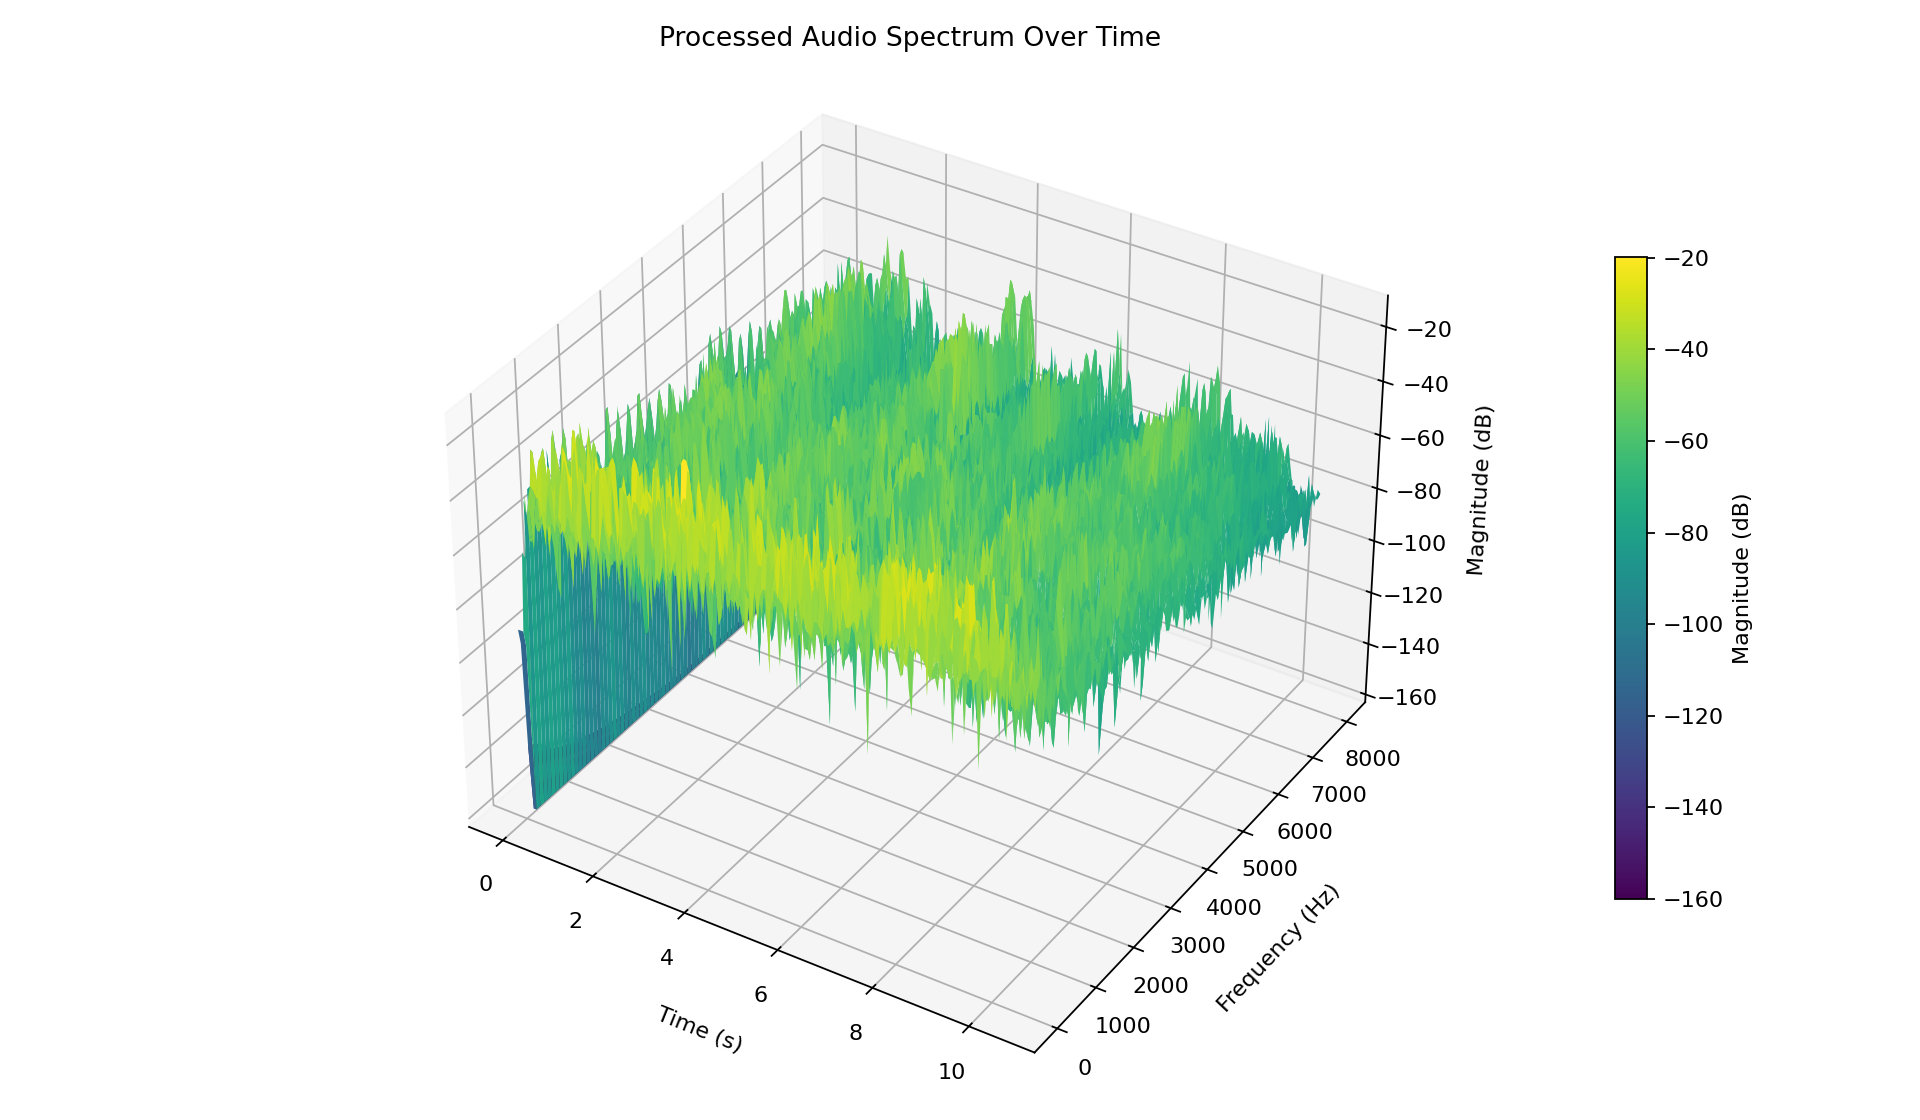
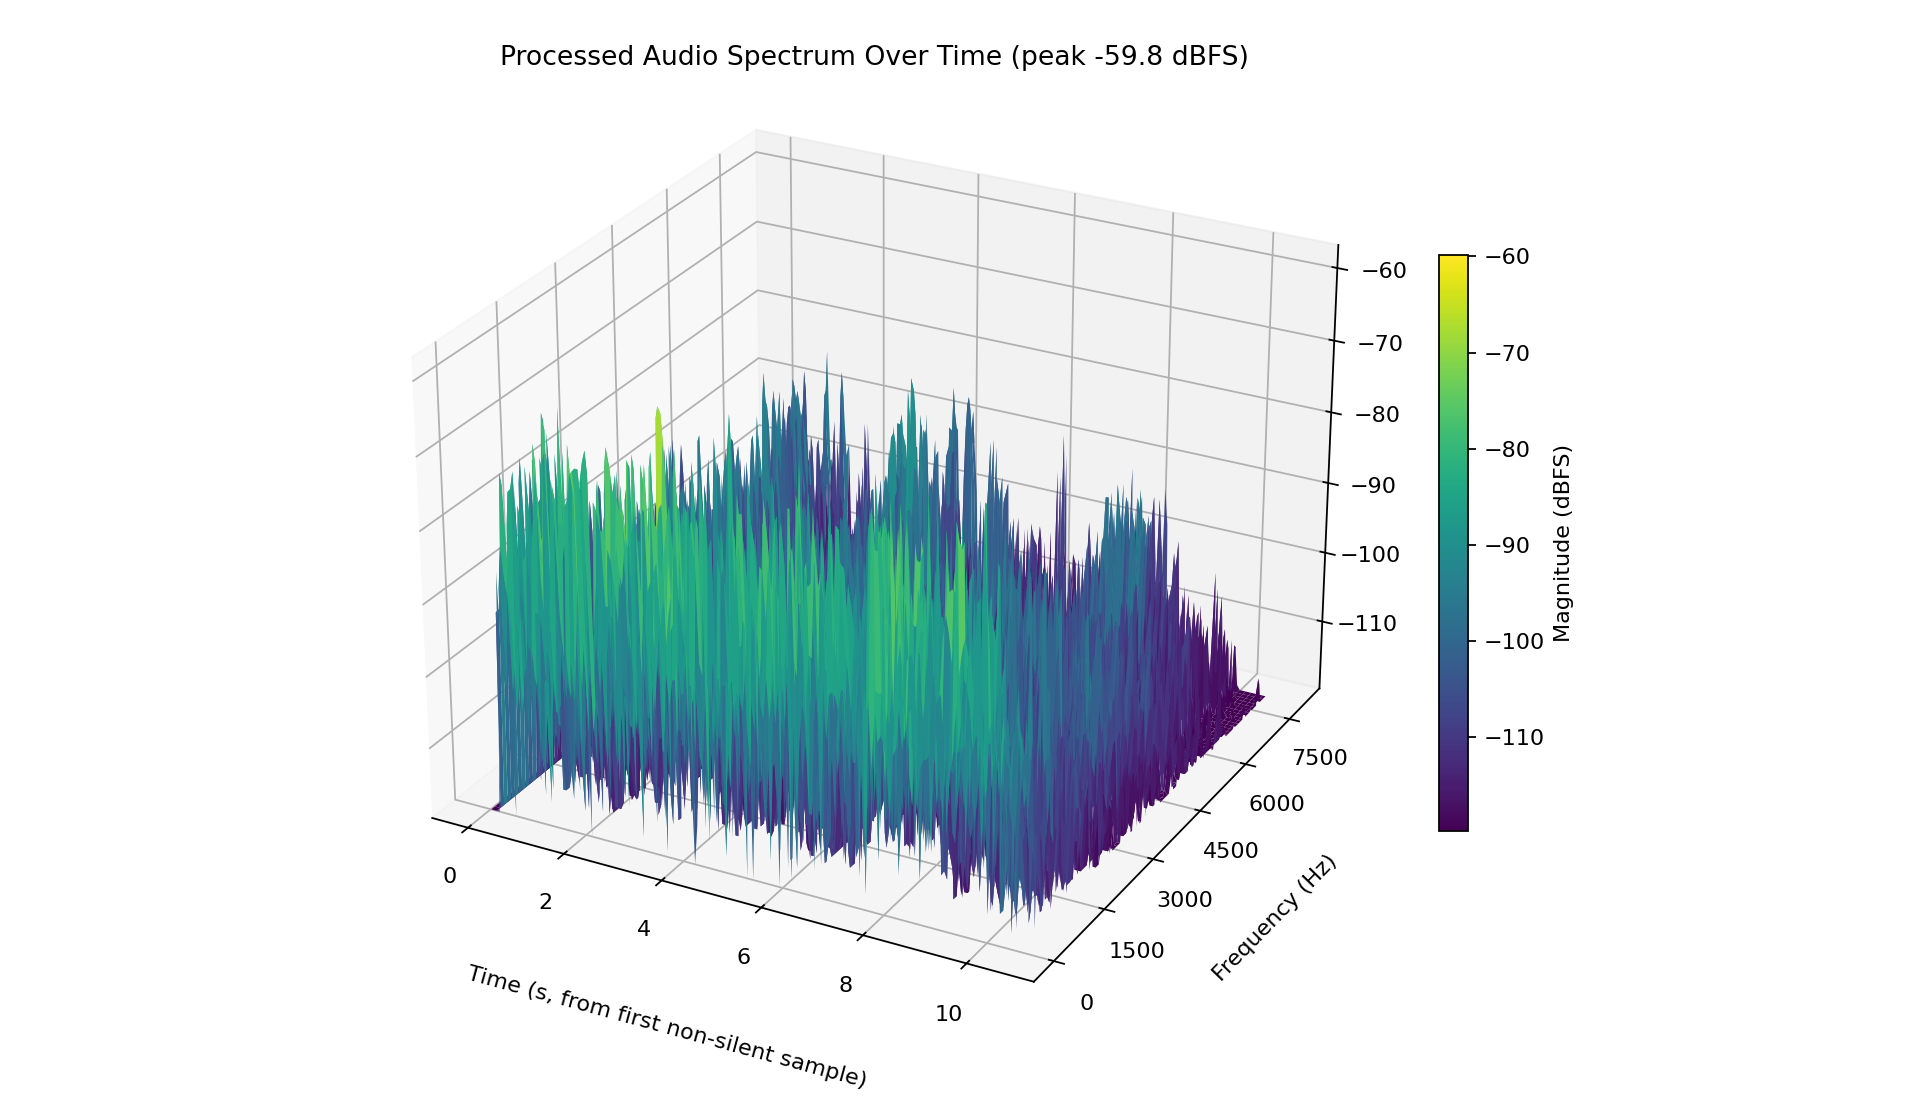
fix(figures): 重做三张对比图，修可读性问题
- multiband_comparison.png 自生成起一直是空白：线性归一化刻度是给单频
  正弦定的，真实语音单格只占满量程 3%，配上写死的 ylim 两条曲线都贴 0。
  改用 dBFS，并用 Welch 分段平均压掉单段周期图的方差。
- spectrum_waterfall.png 色标按数据 min/max 自动定，开头两帧的数字静音
  把色标下半段全浪费掉。改为按峰值向下铺固定 dB，并切掉开头静音；
  3D 几何也按同一下限裁剪，否则向下的尖刺会挡住时间轴刻度。
- hls_golden_comparison.png 参考线太细又叠了透明度，被上面那条盖住，
  看着像只画了一条；误差纵轴改用 16 位 LSB，直接读成"最多差一个最低位"。
- compare_golden_vs_hw.py 补 Windows 控制台的 UTF-8 守卫，否则验收判据
  在控制台上打成乱码。

diff --git a/src/python/plot_spectrum_waterfall.py b/src/python/plot_spectrum_waterfall.py
@@ -2,6 +2,18 @@
 
 Run after multiband_baseline.py from the repository root:
     python src/python/plot_spectrum_waterfall.py
+
+纵轴单位是 **dBFS**（满量程正弦 = 0 dB），不是裸的 20*log10(|X|)。
+两处都是 2026-10-02 改的：
+
+  1. 裸 dB 没有绝对刻度 —— 读图的人不知道 0 在哪，"最大 −11.7 dB"这种话
+     也写不进报告。换成 dBFS 之后可以直接说"峰值 −60 dBFS"。
+  2. 色标原来让 matplotlib 按数据 min/max 自动定。数据里最深的点被 1e-8
+     的截断下限压到 −160 dB，于是色标下面一半全浪费，画面主体挤在上半段、
+     糊成一片黄绿。现在按"峰值往下铺 N dB"定。
+
+另外切掉开头那段纯数字静音：它和后面的信号差约 100 dB，
+在 3D 视角下是一道竖直的墙，正好挡在画面正前方。
 """
 
 import argparse
@@ -11,8 +23,25 @@ import matplotlib
 matplotlib.use("Agg")
 import matplotlib.pyplot as plt
 import numpy as np
-import soundfile as sf
+from matplotlib.ticker import MaxNLocator
 from scipy import signal
+
+try:
+    import soundfile as sf
+except ImportError:
+    # 本机 conda 环境里没装 soundfile（仓库其它脚本也做了同样的回退）。
+    # 不写这个回退的话，这个脚本在这台机器上直接 ImportError 跑不起来。
+    sf = None
+
+
+def read_wav(path):
+    """返回 (float 数组, 采样率)。soundfile 优先，没有就退回 scipy。"""
+    if sf is not None:
+        return sf.read(path)
+    from scipy.io import wavfile
+
+    fs, data = wavfile.read(path)
+    return data.astype(np.float64) / 32768.0, fs
 
 
 def main():
@@ -20,13 +49,20 @@ def main():
     parser.add_argument("--input", default="data/audio/multiband_output.wav")
     parser.add_argument("--output", default="data/figures/spectrum_waterfall.png")
     parser.add_argument("--max-hz", type=float, default=8000.0)
+    parser.add_argument("--db-range", type=float, default=60.0,
+                        help="色标从峰值往下铺多少 dB")
     args = parser.parse_args()
 
-    x, fs = sf.read(args.input)
+    x, fs = read_wav(args.input)
     if x.ndim > 1:
         x = np.mean(x, axis=1)
+
+    # 切掉开头的纯静音（见文件头说明）。记下切了多少，写进坐标轴标签。
+    nonzero = np.abs(x) > 1e-6
+    lead = int(np.argmax(nonzero)) if nonzero.any() else 0
+    x = x[lead:]
     if len(x) < 1024:
-        raise SystemExit("Input audio must contain at least 1024 samples.")
+        raise SystemExit("Input audio must contain at least 1024 non-silent samples.")
 
     frequencies, times, spectrum = signal.spectrogram(
         x,
@@ -40,7 +76,11 @@ def main():
     )
     keep = frequencies <= min(args.max_hz, fs / 2)
     frequencies = frequencies[keep]
-    magnitude_db = 20.0 * np.log10(np.maximum(spectrum[keep], 1e-8))
+
+    # 换成 dBFS：一个满量程正弦经过这套换算正好是 0 dB。
+    # 参考值就是"幅度 1.0 的正弦在 Hann 窗下的峰值格"= 0.5 * sum(win)。
+    full_scale = 0.5 * np.hanning(1024).sum()
+    magnitude_db = 20.0 * np.log10(np.maximum(spectrum[keep] / full_scale, 1e-9))
 
     # Limit the mesh size while retaining the shape of a long recording.
     time_step = max(1, len(times) // 180)
@@ -48,31 +88,55 @@ def main():
     magnitude_db = magnitude_db[:, ::time_step]
     time_grid, freq_grid = np.meshgrid(times, frequencies)
 
+    peak = float(magnitude_db.max())
+    vmin = peak - args.db_range
+
+    # 几何也要按同一个下限裁一刀，不能只裁颜色。
+    # 噪声底那些向下的尖刺（真实低到 −160 dB）会在 3D 里竖成一堵墙，
+    # 正好挡在时间轴前面，把刻度全遮掉 —— 只给 vmin/vmax 是管不住几何的。
+    # 裁完之后底面是个干净的平面，山脊看得清，轴也露得出来。
+    plot_db = np.maximum(magnitude_db, vmin)
+
     fig = plt.figure(figsize=(12, 7))
     ax = fig.add_subplot(111, projection="3d")
     surface = ax.plot_surface(
         time_grid,
         freq_grid,
-        magnitude_db,
+        plot_db,
         cmap="viridis",
         linewidth=0,
         antialiased=True,
         rstride=2,
         cstride=2,
+        vmin=vmin,
+        vmax=peak,
     )
-    ax.set_title("Processed Audio Spectrum Over Time")
-    ax.set_xlabel("Time (s)", labelpad=9)
-    ax.set_ylabel("Frequency (Hz)", labelpad=10)
-    ax.set_zlabel("Magnitude (dB)", labelpad=8)
-    ax.view_init(elev=35, azim=-58)
-    fig.colorbar(surface, ax=ax, shrink=0.62, pad=0.1, label="Magnitude (dB)")
-    fig.tight_layout()
+    ax.set_title("Processed Audio Spectrum Over Time (peak %.1f dBFS)" % peak)
+    ax.set_xlabel("Time (s, from first non-silent sample)", labelpad=16)
+    ax.set_ylabel("Frequency (Hz)", labelpad=12)
+    # z 轴不写字：右边那根 colorbar 是同一段刻度、同一个量，已经带了
+    # "Magnitude (dBFS)" 的标签。两边都写反而打架 —— z 标签的 labelpad 是
+    # 往远离轴的方向推，推小了压在刻度数字上、推大了撞进 colorbar，没有落点。
+    ax.set_zlabel("")
+    ax.set_zlim(vmin, peak + 3.0)
+    # 刻度别太密 —— 密了在 3D 里互相压，读不出来。
+    ax.xaxis.set_major_locator(MaxNLocator(6))
+    ax.yaxis.set_major_locator(MaxNLocator(6))
+    ax.set_box_aspect(None, zoom=1.12)
+    ax.view_init(elev=26, azim=-62)
+    fig.colorbar(surface, ax=ax, shrink=0.62, pad=0.06, label="Magnitude (dBFS)")
+    # 3D 轴用 tight_layout() 不收敛（它算不准 3D 的边距），
+    # 会把 x 轴标签挤出画布 —— 实测就是这么被切掉半个字的。
+    # bottom 留 0.1 是给那行 x 轴标签的位置，少了就切掉尾巴。
+    fig.subplots_adjust(left=0.01, right=0.88, top=0.93, bottom=0.10)
     output_dir = os.path.dirname(args.output)
     if output_dir:
         os.makedirs(output_dir, exist_ok=True)
     fig.savefig(args.output, dpi=160)
     plt.close(fig)
-    print(f"Saved {args.output} ({fs} Hz, {len(x)} samples)")
+    print("Saved %s (%d Hz, %d samples, skipped %d leading samples, "
+          "peak %.1f dBFS, colour range %.0f..%.0f dBFS)"
+          % (args.output, fs, len(x), lead, peak, vmin, peak))
 
 
 if __name__ == "__main__":

diff --git a/src/python/multiband_baseline.py b/src/python/multiband_baseline.py
@@ -239,27 +239,67 @@ def main():
     print(f"   已保存 {OUT_WAV}")
 
     # ---- 5. 频谱对照图 ----
-    m = min(FS, len(x))                  # 只取前 1 秒画图
-    freqs = np.fft.fftfreq(m, 1 / FS)
-    fft_orig = np.abs(np.fft.fft(x[:m])) / m * 2
-    fft_multi = np.abs(np.fft.fft(output[:m])) / m * 2
+    # 只取前 1 秒、0~2000 Hz 画图（人声能量都在这段）。
+    #
+    # 纵轴用 **dB**（满量程正弦 = 0 dB），不是线性归一化幅度。
+    # 线性那套（|X| / N * 2）是给**单频正弦**定的刻度：满量程正弦画出来正好是 1.0。
+    # 真实人声的能量摊在几百个频率格上，单格最大只有 0.0244，也就是满量程的 3%。
+    # 配一个写死的 ylim(0, 1.5)，两条曲线就都贴在 0 上，**图等于空的** ——
+    # 这张图从生成那天起一直是这样，2026-10-02 才发现。
+    # 换 dB 之后 0.0244 就是 −32 dB，看得见。
+    # 用 **Welch 法（分段平均）** 估谱，不用单次 FFT 的周期图。
+    # 单段周期图每个频率格的方差极大 —— 语音上逐格能上下跳 20 dB，
+    # 那点起伏比压缩器造成的变化还大，图上看不出到底谁压了谁（实测见过）。
+    # 分段平均之后留下的是真正的频谱形状。
+    m = min(FS, len(x))                  # 只取前 1 秒
+    nperseg = 4096                       # 频率分辨率 11.7 Hz，约 22 段平均
+    f, psd_o = signal.welch(x[:m], fs=FS, nperseg=nperseg,
+                            noverlap=nperseg // 2, scaling="spectrum")
+    _, psd_p = signal.welch(output[:m], fs=FS, nperseg=nperseg,
+                            noverlap=nperseg // 2, scaling="spectrum")
 
-    plt.figure(figsize=(10, 4))
-    plt.plot(freqs[:m // 2], fft_orig[:m // 2], label="Original", color="blue", alpha=0.5)
-    plt.plot(freqs[:m // 2], fft_multi[:m // 2], label="Multiband Processed",
-             color="orange", linewidth=2)
-    plt.title(f"Multiband Baseline ({len(bands)} bands, {n} taps, "
-              f"subtractive, {FS} Hz)")
-    plt.xlabel("Frequency (Hz)")
-    plt.ylabel("Normalized Magnitude")
-    plt.xlim(0, 2000)
-    plt.ylim(0, 1.5)
-    plt.legend()
-    plt.grid(True)
+    # 0 dB 参考 = 一个满量程正弦的均方（幅度 1.0 → 均方 0.5）。
+    # scaling="spectrum" 下这个参考同样成立，所以纵轴读出来就是 dBFS。
+    REF = 0.5
+    o_db = 10.0 * np.log10(np.maximum(psd_o / REF, 1e-12))
+    p_db = 10.0 * np.log10(np.maximum(psd_p / REF, 1e-12))
+    # 20 Hz 以下不画：第一个频率格（11.7 Hz）在压缩器不工作的直流附近，
+    # 两条曲线在那里都接近零，dB 相减会把它放大成一个假的尖峰。
+    keep = (f >= 20.0) & (f <= 2000.0)
+    peak_db = float(max(o_db[keep].max(), p_db[keep].max()))
+
+    fig, (ax1, ax2) = plt.subplots(2, 1, figsize=(10, 7), sharex=True)
+
+    ax1.plot(f, o_db, label="Original", color="tab:blue", linewidth=1.0)
+    ax1.plot(f, p_db, label="Multiband Processed", color="tab:orange",
+             linewidth=1.4)
+    ax1.set_title(f"Multiband Baseline ({len(bands)} bands, {n} taps, "
+                  f"subtractive, {FS} Hz)")
+    ax1.set_ylabel("Magnitude (dB)\nfull-scale sine = 0 dB")
+    ax1.set_ylim(peak_db - 45.0, peak_db + 6.0)
+    ax1.legend(loc="upper right")
+    ax1.grid(True)
+
+    # 下图：压缩前后差多少。DRC 只在超过阈值的地方动手，所以这条曲线
+    # 就是"这个压缩器在这段音频上到底改了什么"。
+    # y 轴给一个下限（±0.2 dB），免得"其实什么都没变"的时候自动缩放
+    # 去放大数值噪声，看着像变了很多。
+    diff = p_db - o_db
+    dmax = float(np.max(np.abs(diff[keep])))
+    span = max(dmax * 1.2, 0.2)
+    ax2.plot(f, diff, color="tab:red", linewidth=1.0)
+    ax2.axhline(0.0, color="black", linewidth=0.8)
+    ax2.set_xlabel("Frequency (Hz)")
+    ax2.set_ylabel("Processed − Original (dB)")
+    ax2.set_ylim(-span, span)
+    ax2.grid(True)
+    ax2.set_xlim(20, 2000)
 
     os.makedirs(os.path.dirname(OUT_FIG), exist_ok=True)
-    plt.savefig(OUT_FIG)
-    print(f"   已保存 {OUT_FIG}")
+    fig.savefig(OUT_FIG, dpi=130)
+    plt.close(fig)
+    print(f"   已保存 {OUT_FIG}"
+          f"（峰值 {peak_db:.1f} dB，压缩前后最大差 {dmax:.2f} dB）")
 
 
 if __name__ == "__main__":

diff --git a/src/python/compare_golden_vs_hw.py b/src/python/compare_golden_vs_hw.py
@@ -20,6 +20,11 @@
 import os
 import sys
 
+# Windows 控制台默认 GBK，下面这些中文判据会打成乱码。同一个守卫
+# 别的脚本都有，这个漏了。不影响 Linux —— 板子上跑的是同一个文件。
+if hasattr(sys.stdout, "reconfigure"):
+    sys.stdout.reconfigure(encoding="utf-8", errors="replace")
+
 import matplotlib
 matplotlib.use("Agg")
 import matplotlib.pyplot as plt
@@ -95,21 +100,32 @@ def compare_main():
 
     # Keep a visual record of the same numeric comparison. This is a C-sim/HLS
     # output comparison, not a board measurement.
+    # 把参考画粗、画在下面，硬件输出画细、画在上面。
+    # 两条本来就该重合（75 dB SNR），以前参考只有 1.4 pt、上面那条又叠了 0.8
+    # 的透明度，糊在一起看不出画了两条 —— 图里像是只有 HLS output。
+    # 参考加粗之后会从两边各露出一点，形成一条"描边"，一眼看出是两条线。
     os.makedirs(os.path.dirname(PLOT), exist_ok=True)
     sample = np.arange(len(ref))
     fig, (ax_out, ax_err) = plt.subplots(
         2, 1, figsize=(10, 6), sharex=True,
         gridspec_kw={"height_ratios": [2, 1]},
     )
-    ax_out.plot(sample, ref, label="Python golden", linewidth=1.4)
-    ax_out.plot(sample, hw, label="HLS output", linewidth=1.0, alpha=0.8)
+    ax_out.plot(sample, ref, label="Python golden", linewidth=3.0,
+                color="tab:blue", alpha=1.0)
+    ax_out.plot(sample, hw, label="HLS output", linewidth=1.0,
+                color="tab:orange", alpha=1.0)
     ax_out.set_ylabel("Amplitude")
     ax_out.set_title(f"HLS C simulation vs Python golden ({snr:.1f} dB SNR)")
     ax_out.grid(True, alpha=0.25)
     ax_out.legend()
-    ax_err.plot(sample, err, color="#b24a32", linewidth=1.0)
+
+    # 误差换成 **16 位 LSB** 为单位，不用裸的浮点差。
+    # 原来纵轴是 1e-5 的浮点差，读图的人得自己心算才知道 3e-5 算大还是算小。
+    # 1 LSB = 1/32768，换成 LSB 之后纵轴直接读成"最多差一个最低位"。
+    err_lsb = err * 32768.0
+    ax_err.plot(sample, err_lsb, color="#b24a32", linewidth=1.0)
     ax_err.set_xlabel("Sample")
-    ax_err.set_ylabel("HLS − ref")
+    ax_err.set_ylabel("HLS − ref\n(16-bit LSB)")
     ax_err.grid(True, alpha=0.25)
     fig.tight_layout()
     fig.savefig(PLOT, dpi=160)
